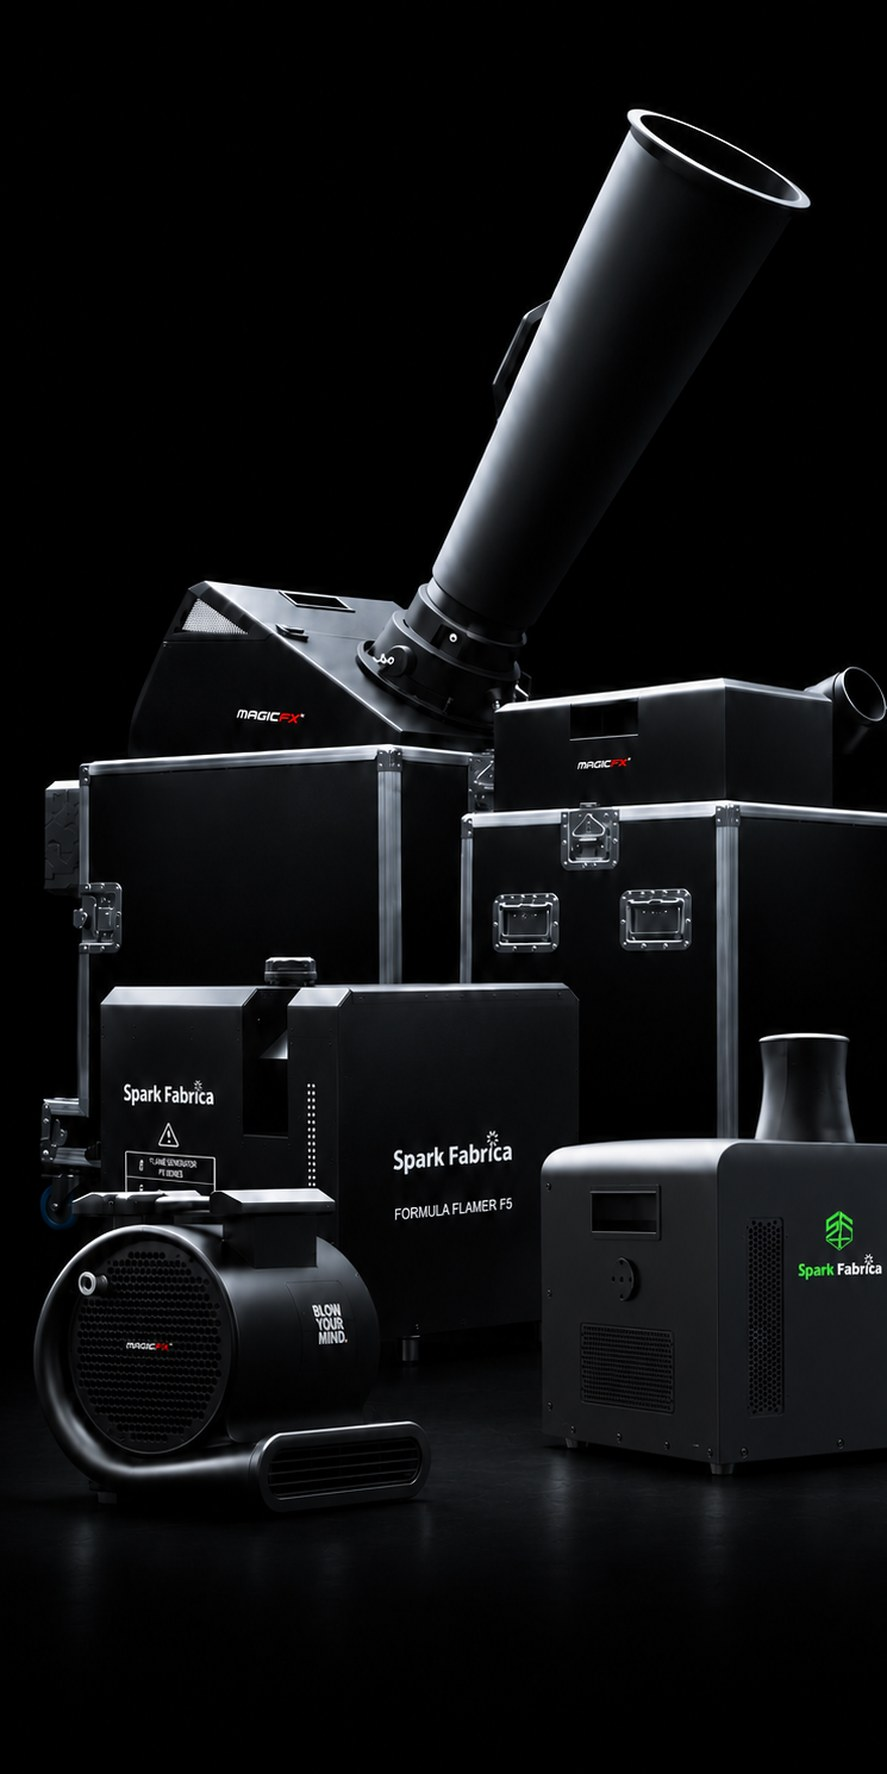
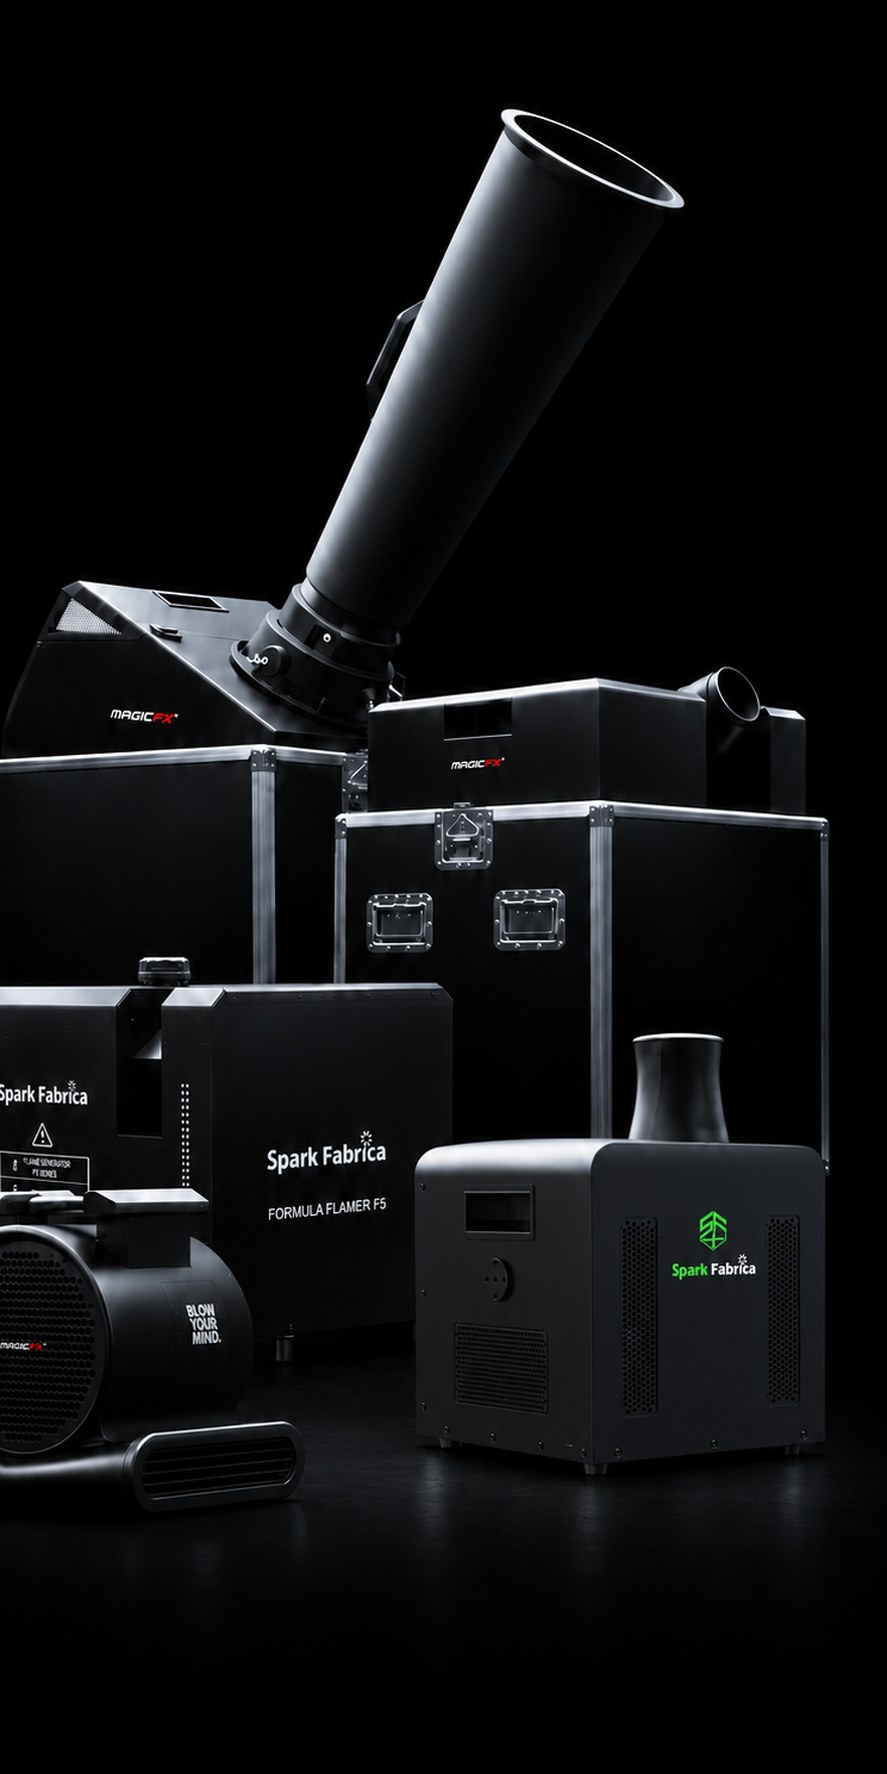
Startseite: Rental-Bild deutlich nach links
Claude-Session: https://claude.ai/code/session_01QhcQSyaPqWh9SfbxJbcUBo

Changed region(s): [[0.0, 0.062, 1.0, 0.8681]]

diff --git a/index.html b/index.html
@@ -289,7 +289,7 @@
     <a class="card" href="shows.html"><div class="card__img"><img loading="lazy" decoding="async" src="img/shows.jpg?v=5" alt="Buntes Feuerwerk über einer Rennbahn vor Publikum"></div><span class="card__label">SHOWS</span></a>
     <a class="card" href="shop.html"><div class="card__img"><img loading="lazy" decoding="async" src="img/vertrieb.jpg" alt="Paletten mit Feuerwerkskartons"></div><span class="card__label">SHOP</span></a>
     <a class="card" href="effekte.html"><div class="card__img"><img loading="lazy" decoding="async" src="img/sfx.jpg?v=4" alt="Konzertpublikum vor einer Bühne mit CO2-Jets und Lichtstrahlen"></div><span class="card__label">SPECIAL EFFECTS</span></a>
-    <a class="card" href="rental.html"><div class="card__img"><img loading="lazy" decoding="async" src="img/rental.jpg?v=4" alt="Fünf Effektgeräte von Magic FX und Spark Fabrica im schwarzen Studio"></div><span class="card__label">RENTAL</span></a>
+    <a class="card" href="rental.html"><div class="card__img"><img loading="lazy" decoding="async" src="img/rental.jpg?v=5" alt="Fünf Effektgeräte von Magic FX und Spark Fabrica im schwarzen Studio"></div><span class="card__label">RENTAL</span></a>
   </div>
 </section>
 
